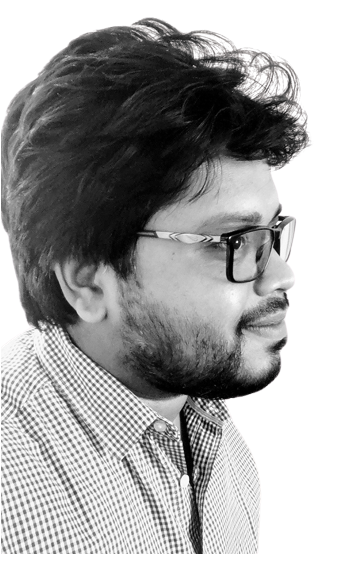
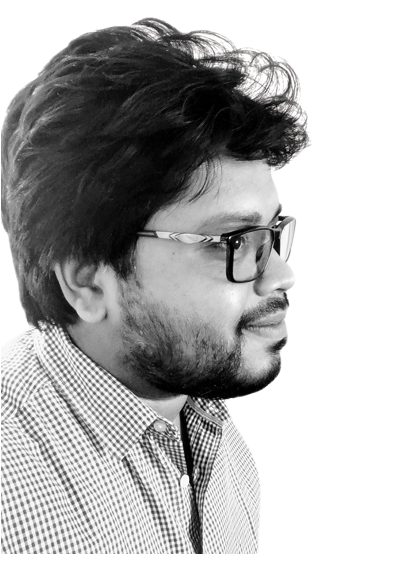
many

diff --git a/_includes/intro.html b/_includes/intro.html
@@ -4,7 +4,7 @@
   <!--<div<div class="portrait"><img src="/assets/images/mypic.jpg"></div>-->
   
   <div class="portrait"><img src="/assets/images/mypic-bg.png"></div>
-	<p style="font-size:90%;  text-align:justify">I completed my MSc in Computer Science from the <a href="http://www.ucalgary.ca/cpsc" ; style="font-weight:bold">University of Calgary</a> under the supervision of <a href="http://pages.cpsc.ucalgary.ca/~ualim/"; style="font-weight:bold">Dr. Usman R. Alim</a>. I was a researcher in <a href="http://visagg.cpsc.ucalgary.ca/">Visualization and Graphics Group (VISAGG)</a> at <a href="http://jungle.cpsc.ucalgary.ca/wiki/">Graphics Jungle Lab.</a> I completed my BSc in Computer Science and Information Technology from the <a href="http://www.iutoic-dhaka.edu/">Islamic University of Technology</a>. Currently, I am working as a faculty member in CSE at <a href="http://www.aust.edu/">Ahasanullah University of Science and Technology</a>. Moreover, I am collaborating with <a href="https://www.cs.ubc.ca/~rhodin/web/"; style="font-weight:bold">Asst. Prof. Dr. Helge Rhodin</a> from <a href="https://www.cs.ubc.ca/" ; style="font-weight:bold">University of British Columbia</a>. I will start my PhD at the <a href="https://www.colorado.edu/">University of Colorado Boulder</a>  from Fall 2022. &nbsp; 
+	<p style="font-size:90%;  text-align:justify; margin-left: 40px">I completed my MSc in Computer Science from the <a href="http://www.ucalgary.ca/cpsc" ; style="font-weight:bold">University of Calgary</a> under the supervision of <a href="http://pages.cpsc.ucalgary.ca/~ualim/"; style="font-weight:bold">Dr. Usman R. Alim</a>. I was a researcher in <a href="http://visagg.cpsc.ucalgary.ca/">Visualization and Graphics Group (VISAGG)</a> at <a href="http://jungle.cpsc.ucalgary.ca/wiki/">Graphics Jungle Lab.</a> I completed my BSc in Computer Science and Information Technology from the <a href="http://www.iutoic-dhaka.edu/">Islamic University of Technology</a>. Currently, I am working as a faculty member in CSE at <a href="http://www.aust.edu/">Ahasanullah University of Science and Technology</a>. Moreover, I am collaborating with <a href="https://www.cs.ubc.ca/~rhodin/web/"; style="font-weight:bold">Asst. Prof. Dr. Helge Rhodin</a> from <a href="https://www.cs.ubc.ca/" ; style="font-weight:bold">University of British Columbia</a>. I will start my PhD at the <a href="https://www.colorado.edu/">University of Colorado Boulder</a>  from Fall 2022. &nbsp; 
   <br> <br>
   [<a href="{{ '/cv/CV_MIJubair.pdf' | prepend: site.baseurl }}">CV</a>] [<a href="https://twitter.com/ImrulJubair">Twitter</a>] [<a href="https://www.linkedin.com/in/imruljubair">Linkedin</a>] [<a href="https://orcid.org/0000-0003-0112-7524
   ">ORCiD</a>] 
